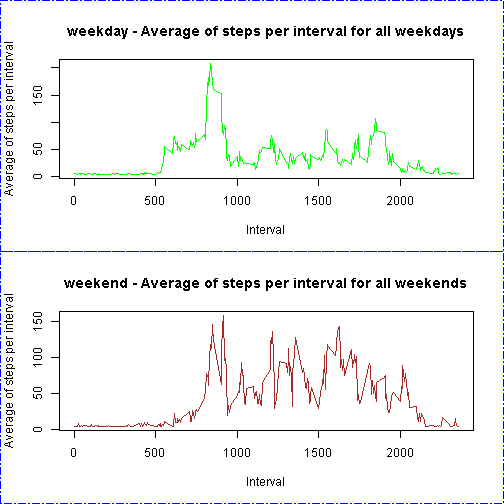
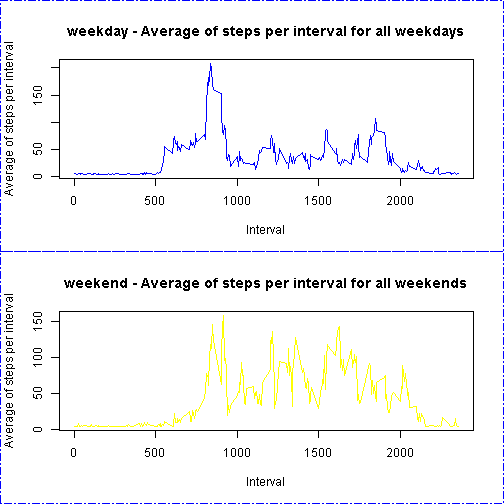
Reproducible Research: Peer Assessment 1

diff --git a/PA1_template.html b/PA1_template.html
@@ -180,6 +180,8 @@ hljs.initHighlightingOnLoad();
 <body>
 <h1>Reproducible Research: Peer Assessment 1</h1>
 
+<h4>by J.A (<a href="mailto:newja1390@gmail.com">newja1390@gmail.com</a>)</h4>
+
 <h2>Introduction</h2>
 
 <p>It is now possible to collect a large amount of data about personal movement

diff --git a/PA1_template.md b/PA1_template.md
@@ -5,7 +5,8 @@ output:
     keep_md: true
 ---
 
-# Reproducible Research: Peer Assessment 1
+# Reproducible Research: Peer Assessment 1 
+#### by J.A (newja1390@gmail.com)
 ## Introduction
 It is now possible to collect a large amount of data about personal movement
 using activity monitoring devices. These type of devices are part of the 
@@ -36,27 +37,29 @@ The variables included in this dataset are:
 The dataset is stored in a comma-separated-value (CSV) file and there are a total
 of 17,568 observations in this dataset.
 
-## Procedure
-
+## Procedure:
+--------------------------------------------------------------------------------
 ### Loading and preprocessing the data
 
 ```r
-   # read data from dataset
+   ### read data from dataset
    unzip(zipfile="activity.zip")
    data <- read.csv("activity.csv")
 ```
-
+--------------------------------------------------------------------------------
 ### What is mean total number of steps taken per day?
+* Make a histogram of the total number of steps taken each day
+* Calculate and report the mean and median total number of steps taken per day
 
 ```r
-# split the data to steps by day
+### split the data to steps by day
 dateSplit <- split(data, data$date)
 
-# Calculate the total number of steps taken per day
+### Calculate the total number of steps taken per day
 totalStepsPerDay <- sapply(dateSplit, function(x) sum(x[,"steps"],na.rm = TRUE))
 
 
-# Make a histogram of the total number of steps taken each day
+### Make a histogram of the total number of steps taken each day
 hist(totalStepsPerDay, 
      main="Histogram of the total number of steps taken each day",  
      xlab="Steps taken each day",
@@ -67,85 +70,57 @@ hist(totalStepsPerDay,
 ![plot of chunk MeanStepsPerDay](figure/MeanStepsPerDay-1.png) 
 
 ```r
-# Calculate and report the mean and median of the total number of steps taken per day
-
-# ================== Mean ======================
-## solution 1:
-meanStepsPerDay <- sapply(dateSplit, function(x) mean(x[,"steps"],na.rm = TRUE))
-
-# convert steps per day list to data.frame type for plotting
-df <- data.frame(meanStepsPerDay)
-df <- data.frame(date = rownames(df),meanSteps = df[,1])
-df2 <- df[complete.cases(df), ];
-
-# plot the mean of the total number of steps taken per day
-plot(x=df2$date,y=df2$meanSteps,
-     main="Mean of the total number of steps taken per day", 
-     xlab="Date",
-     ylab="Mean of steps per day", 
-     type="l",
-     col="blue")
-
-## solution 2:
-meanStepsPerDay <- aggregate(x=list(meanSteps=data$steps), by=list(date=data$date),
-                             FUN=mean, na.rm=TRUE)
-
-plot(x=meanStepsPerDay$date,y=meanStepsPerDay$meanSteps,
-     main="Mean of the total number of steps taken per day", 
-     xlab="Date",
-     ylab="Mean of steps per day", 
-     type="l",
-     col="blue")
+### Calculate and report the mean and median of the total number of steps taken per day
+mean(totalStepsPerDay)
 ```
 
-![plot of chunk MeanStepsPerDay](figure/MeanStepsPerDay-2.png) 
+```
+## [1] 9354.23
+```
 
 ```r
-# ================= Median ======================
-medianStepsPerDay <- sapply(dateSplit, function(x) median(x[,"steps"],na.rm = TRUE))
-
-# convert steps per day list to data.frame type for plotting
-df <- data.frame(medianStepsPerDay)
-df <- data.frame(date = rownames(df),medianSteps = df[,1] )
-df <- df[complete.cases(df), ]
-
-# plot the mean and median of the total number of steps taken per day
-plot(x=df$date,y=df$medianSteps,
-     main="Median of the total number of steps taken per day", 
-     xlab="Date",
-     ylab="Median of steps per day", 
-     type="l",
-     col="green")
+median(totalStepsPerDay)
 ```
 
-![plot of chunk MeanStepsPerDay](figure/MeanStepsPerDay-3.png) 
-
+```
+## [1] 10395
+```
+--------------------------------------------------------------------------------
 ### What is the average daily activity pattern?
+* Make a time series plot (i.e. type = “l”) of the 5-minute interval (x-axis) and the average number of steps taken, averaged across all days (y-axis)
+* Which 5-minute interval, on average across all the days in the dataset, contains the maximum number of steps?
+
 
 ```r
-## 1. Making a time series plot of the 5-minute interval (x-axis) and the average number of steps taken, averaged across all days (y-axis)
+### 1. Making a time series plot of the 5-minute interval(x-axis)and the average number of steps taken, averaged across all days(y-axis)
 
 avgStepsPerInterval <- aggregate(x=list(avgSteps=data$steps),
                                  by=list(interval=data$interval),
                                  FUN=mean, na.rm=TRUE)
 
-
-# Plot the time-series graph.
-# x-axis : Time interval, y-axis : Average number of steps taken all days for each time interval
+### Plot the time-series graph.
+## x-axis: Time interval, y-axis: Average number of steps taken all days for each time interval
 plot(x=avgStepsPerInterval$interval,y=avgStepsPerInterval$avgSteps,
      main="Average of steps per interval for all days", 
      xlab="Interval",
      ylab="Average of steps per interval", 
      type="l",   
-     col="blue")
+     col="red")
 
 
-## 2. Which 5-minute interval, on average across all the days in the dataset, contains the maximum number of steps?
+### 2. Which 5-minute interval, on average across all the days in the dataset, contains the maximum number of steps?
 max <- max(avgStepsPerInterval$avgSteps, na.rm=TRUE)
 index <- as.numeric(which(avgStepsPerInterval$avgSteps == max))
 max_avgSteps <- avgStepsPerInterval[index,]
 
-#where the average of steps is max:
+### adds one or more straight lines through the current plot, where the average of steps is max.
+abline(h=max_avgSteps$avgSteps ,col="blue", lwd=1)
+```
+
+![plot of chunk ActivityPattern](figure/ActivityPattern-1.png) 
+
+```r
+### where the average of steps is max:
 max_avgSteps
 ```
 
@@ -153,21 +128,17 @@ max_avgSteps
 ##     interval avgSteps
 ## 104      835 206.1698
 ```
-
-```r
-## adds one or more straight lines through the current plot, where the average of steps is max.
-#abline(v=max_avgSteps$interval ,col="green", lwd=1)
-abline(h=max_avgSteps$avgSteps ,col="green", lwd=1)
-```
-
-![plot of chunk ActivityPattern](figure/ActivityPattern-1.png) 
-
+--------------------------------------------------------------------------------
 ### Imputing missing values
 
-```r
-# The presence of missing values may introduce bias into some calculations or summaries of the data.
+The presence of missing values may introduce bias into some calculations or summaries of the data.
+The strategy of Filling in all of the missing values in the dataset is using the mean for day, and the mean for 5-minute interval.
 
-# The total number of missing values in the dataset (i.e. the total number of rows with NAs)is:
+
+```r
+### The presence of missing values may introduce bias into some calculations or summaries of the data.
+
+### The total number of missing values in the dataset(i.e. the total number of rows with NAs)is:
 nrow(data) - nrow(na.omit(data))
 ```
 
@@ -176,8 +147,8 @@ nrow(data) - nrow(na.omit(data))
 ```
 
 ```r
-# Filling in all of the missing values in the dataset.
-# The strategy is using the mean for day, and the mean for 5-minute interval.
+### Filling in all of the missing values in the dataset.
+### The strategy is using the mean for day, and the mean for 5-minute interval.
 
 # df<-meanStepsPerDay
 # for (i in nrow(data))
@@ -193,82 +164,100 @@ nrow(data) - nrow(na.omit(data))
 # d2<-data[is.na(data$steps),]
 # d3<-na.omit(data)
 
-# Create a new dataset that is equal to the original dataset but with the missing data filled in
+### Create a new dataset that is equal to the original dataset but with the missing data filled in
 data2<-data
 data2[is.na(data$steps),"steps"] <- mean(data2$steps, na.rm = TRUE)
 
+### Make a histogram of the total number of steps taken each day. What is the impact of imputing missing data on the estimates of the total daily number of steps?
 
-# Make a histogram of the total number of steps taken each day and Calculate and report the mean and median total number of steps taken per day. Do these values differ from the estimates from the first part of the assignment? What is the impact of imputing missing data on the estimates of the total daily number of steps?
-
-# split the new dataset to steps by day
+### split the new dataset to steps by day
 dateSplit <- split(data2, data2$date)
 
-# Calculate the total number of steps taken per day
+### Calculate the total number of steps taken per day
 totalStepsPerDay <- sapply(dateSplit, function(x) sum(x[,"steps"],na.rm = TRUE))
 
-
-# Make a histogram of the total number of steps taken each day from new dataset
+### Make a histogram of the total number of steps taken each day from new dataset
 hist(totalStepsPerDay, 
-  main="Histogram of the total number of steps taken each day (Imputted missing values",  
+  main="Histogram of the total number of steps taken each day",  
+  sub="(Imputted missing values)",
   xlab="Steps taken each day",
   ylab="Days Count",
-  col="blue")
+  col="green")
 ```
 
 ![plot of chunk ImputingMissingValues](figure/ImputingMissingValues-1.png) 
 
+```r
+### Calculate and report the mean and median total number of steps taken per day. Do these values differ from the estimates from the first part of the assignment? 
 
+### Mean total number of steps taken per day (missing replaced by mean for that interval):
+mean(totalStepsPerDay)
+```
+
+```
+## [1] 10766.19
+```
+
+```r
+### Median total number of steps taken per day (missing replaced by mean for that interval):
+median(totalStepsPerDay)
+```
+
+```
+## [1] 10766.19
+```
+--------------------------------------------------------------------------------
 ### Are there differences in activity patterns between weekdays and weekends?
 
 ```r
-# 1.Create a new factor variable in the dataset with two levels -- "weekday" and "weekend" indicating whether a given date is a weekday or weekend day.
+### 1.Create a new factor variable in the dataset with two levels -- "weekday" and "weekend" indicating whether a given date is a weekday or weekend day.
  
 dayType <- factor(c("weekday","weekend"))
 data2$day[as.POSIXlt(data2$date)$wday %in% c(1:5) ]<- as.character(dayType[1])
 data2$day[as.POSIXlt(data2$date)$wday %in% c(0,6) ]<- as.character(dayType[2])
 
+### 2.Make a panel plot containing a time series plot of the 5-minute interval (x-axis) and the average number of steps taken, averaged across all weekday days or weekend days (y-axis).
 
-# 2.Make a panel plot containing a time series plot of the 5-minute interval (x-axis) and the average number of steps taken, averaged across all weekday days or weekend days (y-axis).
+### Make a panel plot
+par(mfrow = c(2,1))
 
-# Make a panel plot
-par(mfrow=c(2,1))
 
-# weekdays dataset
+data3<-data2
+### weekdays dataset
 data3<-subset(data2,day == as.character(dayType[1]),select=c(date,steps,interval))
 avgStepsPerInterval <- aggregate(x=list(avgSteps=data3$steps),
                                  by=list(interval=data3$interval),
                                  FUN=mean, na.rm=TRUE)
 
-# Plot the weekdays time-series graph.
-# x-axis:Time interval, y-axis:Average number of steps taken all days for each time interval
+### Plot the weekdays time-series graph.
+### x-axis:Time interval, y-axis:Average number of steps taken all days for each time interval
 plot(x=avgStepsPerInterval$interval,y=avgStepsPerInterval$avgSteps,
      main="weekday - Average of steps per interval for all weekdays", 
      xlab="Interval",
      ylab="Average of steps per interval", 
      type="l",   
-     col="green")
+     col="blue")
 
 box(which = "figure", lty = '1373', col = 'blue')
 
-# weekends dataset
+### weekends dataset
 data3<-subset(data2,day == as.character(dayType[2]),select=c(date,steps,interval))
 avgStepsPerInterval <- aggregate(x=list(avgSteps=data3$steps),
                                  by=list(interval=data3$interval),
                                  FUN=mean, na.rm=TRUE)
 
-# Plot the weekends time-series graph
+### Plot the weekends time-series graph
 plot(x=avgStepsPerInterval$interval,y=avgStepsPerInterval$avgSteps,
      main="weekend - Average of steps per interval for all weekends", 
      xlab="Interval",
      ylab="Average of steps per interval", 
      type="l",   
-     col="brown")
+     col="yellow")
 
 box(which = "figure", lty = '1373', col = 'blue')
 ```
 
 ![plot of chunk ActivityPatternsDifferences](figure/ActivityPatternsDifferences-1.png) 
-
----
+--------------------------------------------------------------------------------
 [1]: https://d396qusza40orc.cloudfront.net/repdata%2Fdata%2Factivity.zip
 
